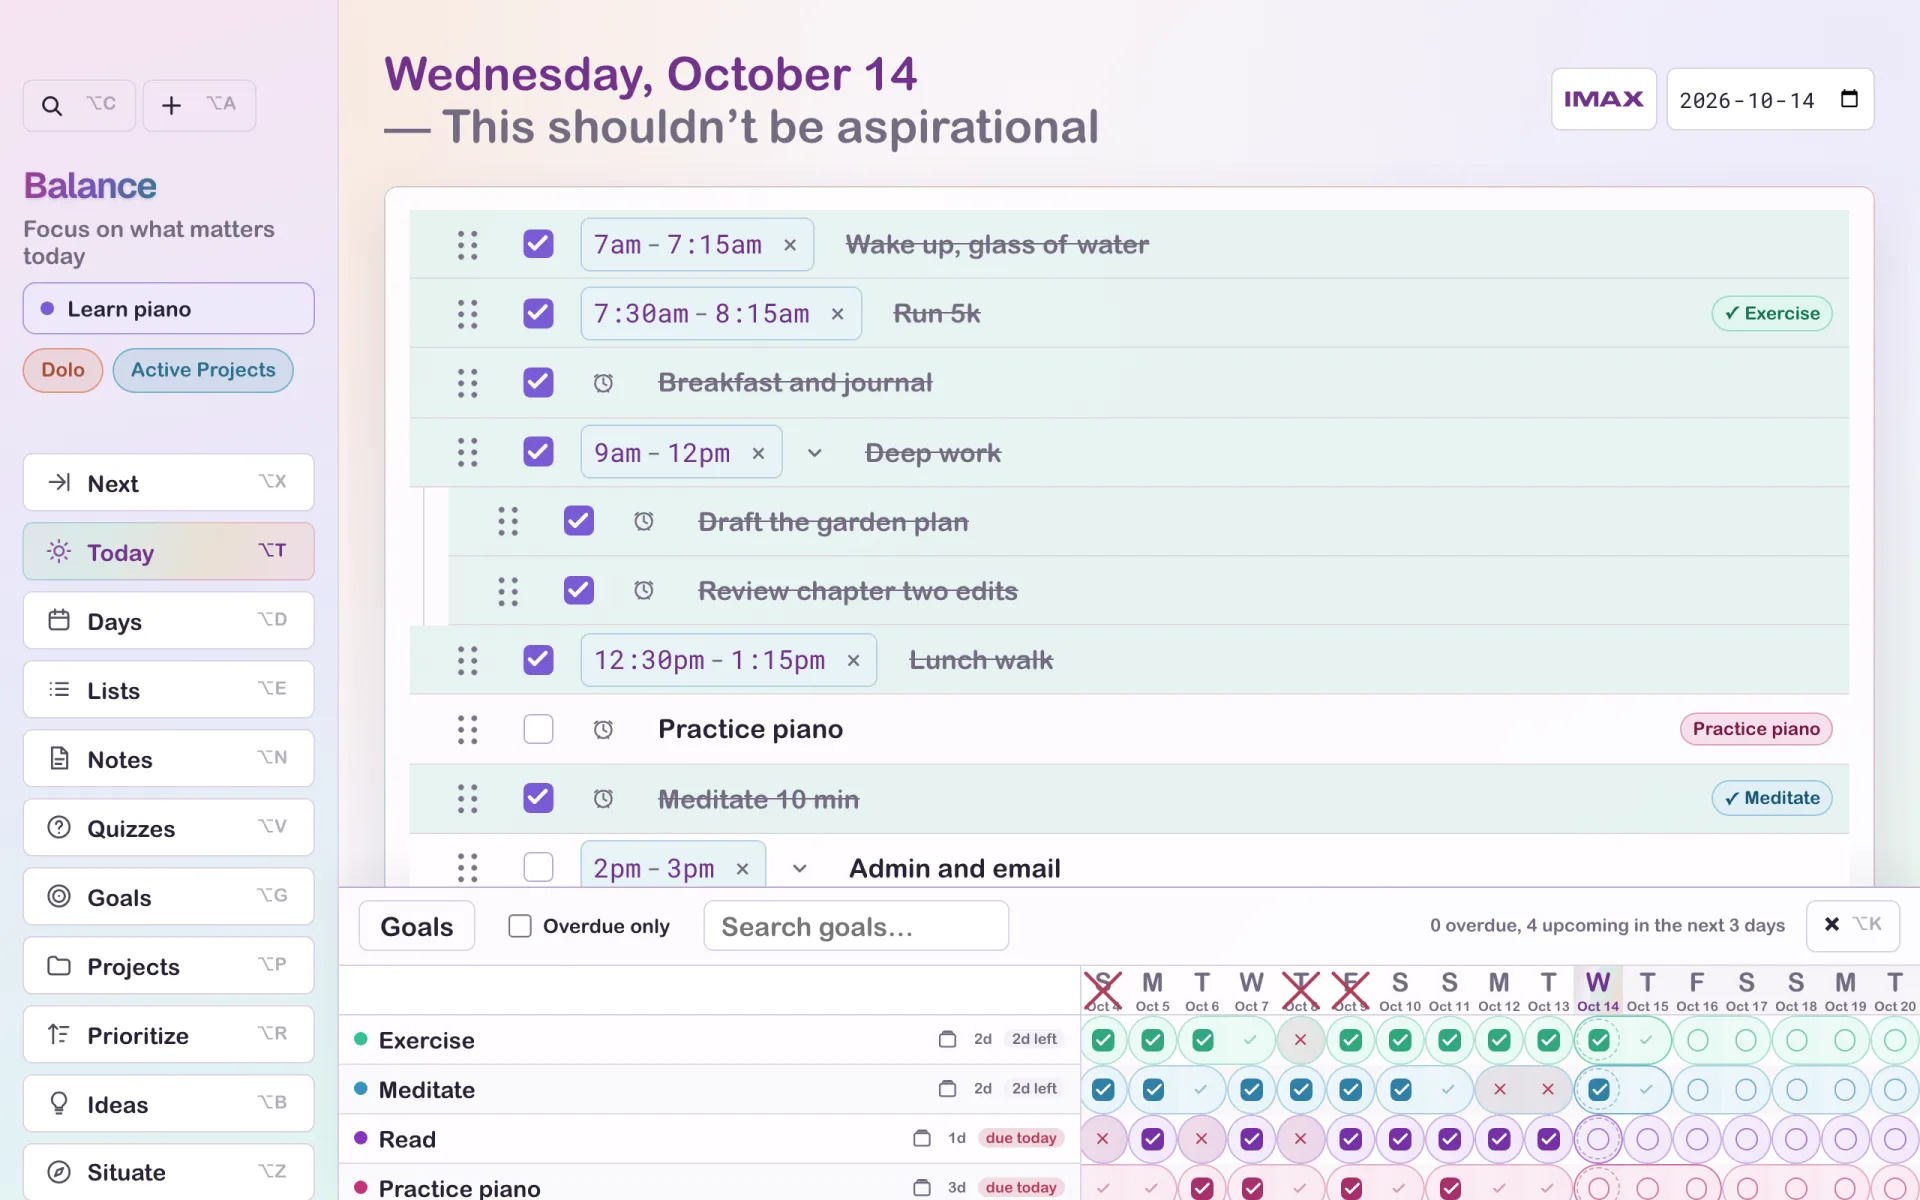
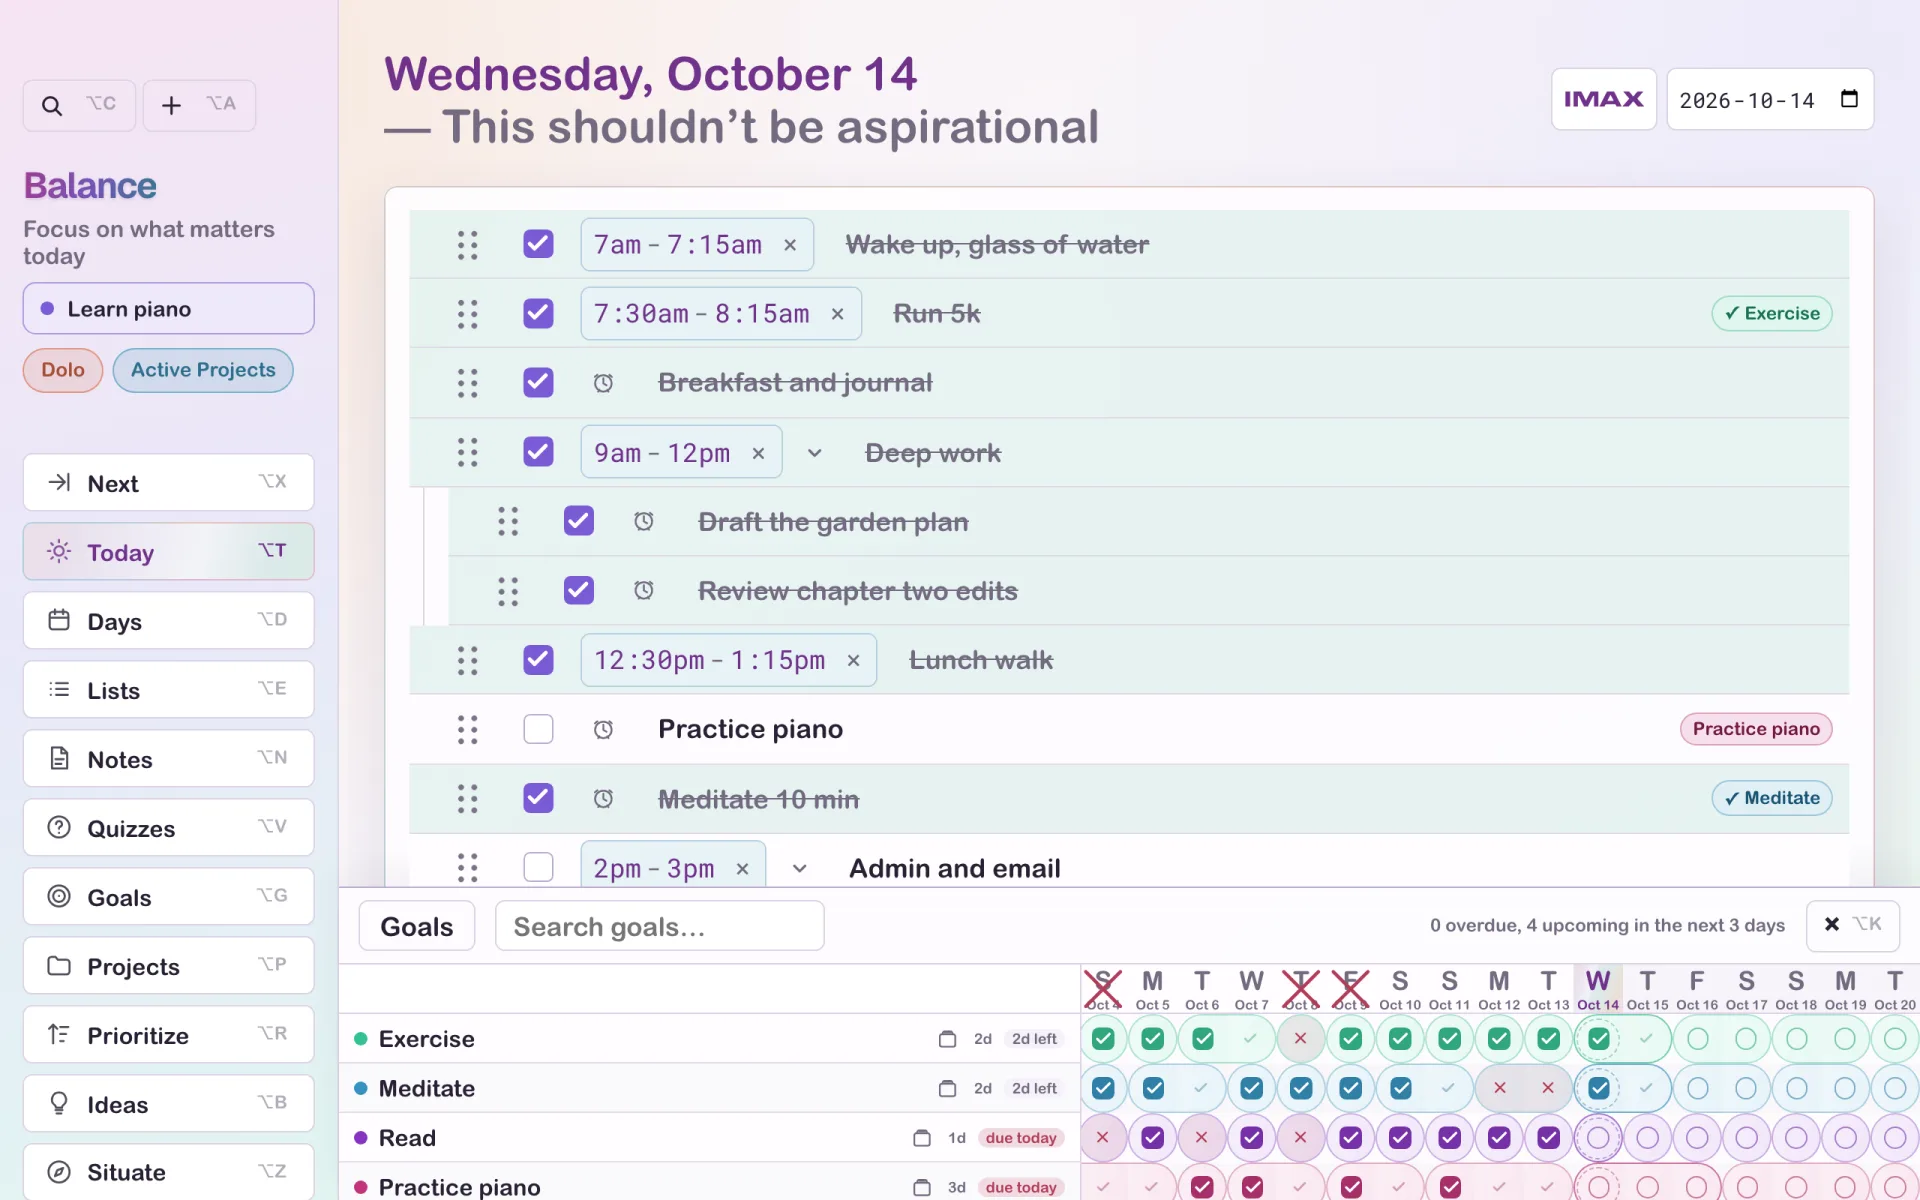
Goal Rhythm: remove the Overdue only filter

diff --git a/tests/visual/goals.spec.ts b/tests/visual/goals.spec.ts
@@ -1436,33 +1436,11 @@ test('goal rhythm and the goals page both use urgency order', async ({ page }, t
 
   const goalRhythm = page.getByRole('region', { name: 'Goal history' })
   const goalsButton = goalRhythm.getByRole('button', { name: 'Goals', exact: true })
-  const overdueLabel = page.locator('.goal-history-overdue-filter')
-  const overdueText = overdueLabel.getByText('Overdue only')
-  const overdueOnly = page.getByRole('checkbox', { name: 'Overdue only' })
   const goalSearch = page.getByRole('searchbox', { name: 'Search goals' })
-  const [goalsBounds, filterBounds, searchBounds] = await Promise.all([
-    goalsButton.boundingBox(),
-    overdueLabel.boundingBox(),
-    goalSearch.boundingBox(),
-  ])
+  const [goalsBounds, searchBounds] = await Promise.all([goalsButton.boundingBox(), goalSearch.boundingBox()])
   expect(goalsBounds).not.toBeNull()
-  expect(filterBounds).not.toBeNull()
   expect(searchBounds).not.toBeNull()
-  expect(goalsBounds!.x + goalsBounds!.width).toBeLessThan(filterBounds!.x)
-  expect(filterBounds!.x + filterBounds!.width).toBeLessThan(searchBounds!.x)
-  expect(filterBounds!.height).toBeGreaterThanOrEqual(32)
-
-  const filterCursors = await Promise.all([
-    overdueLabel.evaluate((element) => getComputedStyle(element).cursor),
-    overdueOnly.evaluate((element) => getComputedStyle(element).cursor),
-    overdueText.evaluate((element) => getComputedStyle(element).cursor),
-  ])
-  expect(filterCursors).toEqual(['pointer', 'pointer', 'pointer'])
-
-  await overdueText.click()
-  await expect(overdueOnly).toBeChecked()
-  await overdueLabel.click({ position: { x: filterBounds!.width - 2, y: filterBounds!.height / 2 } })
-  await expect(overdueOnly).not.toBeChecked()
+  expect(goalsBounds!.x + goalsBounds!.width).toBeLessThan(searchBounds!.x)
 
   if (testInfo.project.name === 'desktop') {
     const summaryBounds = await page.locator('.goal-history-summary').boundingBox()
@@ -1470,13 +1448,9 @@ test('goal rhythm and the goals page both use urgency order', async ({ page }, t
     expect(searchBounds!.x + searchBounds!.width).toBeLessThan(summaryBounds!.x)
   }
 
-  await overdueOnly.check()
-  await expect(page.locator('.goal-history-name span:not(.goal-color-dot)').allTextContents()).resolves.toEqual(['Overdue'])
   await goalSearch.fill('Sooner')
-  await expect(page.getByText('No overdue goals match “Sooner”.')).toBeVisible()
-  await page.getByRole('button', { name: 'Clear search' }).click()
-  await expect(page.locator('.goal-history-name span:not(.goal-color-dot)').allTextContents()).resolves.toEqual(['Overdue'])
-  await overdueOnly.uncheck()
+  await expect(page.locator('.goal-history-name span:not(.goal-color-dot)').allTextContents()).resolves.toEqual(['Sooner'])
+  await goalSearch.fill('')
 
   await goalsButton.click()
   await expect(

diff --git a/src/lib/GoalHistoryPanel.svelte b/src/lib/GoalHistoryPanel.svelte
@@ -31,7 +31,6 @@
   export let scrollRequest: { goalId: string; nonce: number } | null = null
 
   let search = ''
-  let overdueOnly = false
   let scrollEl: HTMLDivElement | undefined
   let namePaneEl: HTMLDivElement | undefined
   let mounted = false
@@ -67,7 +66,6 @@
       // the same transient state that destroying the component used to clear so
       // toggling IMAX does not change the panel's user-visible behavior.
       search = ''
-      overdueOnly = false
       highlightedGoalId = null
       copiedGoalId = null
       lastCenteredStartDate = null
@@ -90,7 +88,6 @@
 
   async function revealGoal(goalId: string, nonce: number) {
     search = ''
-    overdueOnly = false
     highlightedGoalId = null
     if (highlightResetTimer) clearTimeout(highlightResetTimer)
 
@@ -179,7 +176,7 @@
     else if (daysUntilLapse <= 3) summary.upcoming += 1
     return summary
   }, { overdue: 0, upcoming: 0 })
-  $: matchingGoals = filterGoalsByPhrase(
+  $: nextVisibleGoals = filterGoalsByPhrase(
     sortGoalsForRhythm(
       activeGoals,
       completions,
@@ -188,9 +185,6 @@
     ),
     search,
   )
-  $: nextVisibleGoals = overdueOnly
-    ? matchingGoals.filter((goal) => (goalDaysUntilLapse(goal, completions, viewedDate) ?? 0) < 0)
-    : matchingGoals
   // Re-sorting for a new viewed day usually keeps the same rows. Reassigning an
   // equal array would still re-render every goal row and all of its cells.
   let visibleGoals: Goal[] = []
@@ -307,10 +301,6 @@
       <button class="goal-history-open-goals" type="button" on:click={() => onOpenGoals()}>Goals</button>
     </div>
     <div class="goal-history-filters">
-      <label class="goal-history-overdue-filter">
-        <input type="checkbox" bind:checked={overdueOnly} />
-        <span>Overdue only</span>
-      </label>
       <div class="goal-history-search-field">
         <input
           class="goal-history-search"
@@ -396,11 +386,8 @@
           {:else}
             <div class="goal-history-empty">
               {#if search.trim()}
-                <span>{overdueOnly ? 'No overdue goals' : 'No goals'} match “{search.trim()}”.</span>
+                <span>No goals match “{search.trim()}”.</span>
                 <button type="button" on:click={() => (search = '')}>Clear search</button>
-              {:else if overdueOnly}
-                <span>No overdue goals.</span>
-                <button type="button" on:click={() => (overdueOnly = false)}>Show all goals</button>
               {:else}
                 <span>No goals active in this range.</span>
                 <button type="button" on:click={() => onOpenGoals()}>Add your first goal</button>

diff --git a/src/app.css b/src/app.css
@@ -4679,35 +4679,10 @@ body.mobile-checkbox-dragging {
 
 .goal-history-filters {
   display: flex;
-  flex: 0 1 312px;
+  flex: 0 1 200px;
   min-width: 0;
   align-items: center;
   gap: 12px;
-}
-
-.goal-history-overdue-filter {
-  display: flex;
-  flex: 0 0 auto;
-  align-items: center;
-  gap: 6px;
-  min-height: 32px;
-  padding-inline: 8px;
-  cursor: pointer;
-  white-space: nowrap;
-}
-
-.goal-history-overdue-filter input {
-  width: 15px;
-  height: 15px;
-  margin: 0;
-  accent-color: var(--accent);
-  cursor: pointer;
-}
-
-.goal-history-toolbar .goal-history-overdue-filter span {
-  color: var(--ink);
-  font-size: 12px;
-  cursor: pointer;
 }
 
 .goal-history-summary {

diff --git a/tests/visual/prioritize.spec.ts b/tests/visual/prioritize.spec.ts
@@ -127,7 +127,6 @@ test('keyboard prioritizing reorders, persists, undoes and times out', async ({ 
   await page.keyboard.type(' x')
   await page.locator('.prioritize-add').click()
   await expect(rows(page).nth(3)).toHaveText(/Synthetic overdue goal x\s*$/)
-  await expect(page.getByText('Overdue only')).toBeHidden()
 
   // Cmd/Ctrl+E edits the selected row; Escape saves like Enter.
   await rows(page).nth(2).locator('.priority-rank').click()
